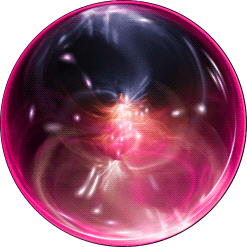
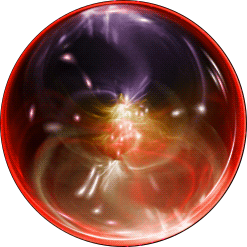
Agent orbs: one colour per agent, a free colour for each new agent
The pink orb animation is hue-rotated per agent (CSS filter on the still and
the video canvas; same matrix for the push-icon stills, scripts/agent-orb-colors.mjs):
Anastasia rose, Claude coral, Zero gold, Robin green, Nami cyan (photo shown),
Hammer blue, Katerina violet, plus five spare colours. A new agent gets the free
colour farthest from those taken (server/agents.js on creation, preselected in
the agent editor, where taken colours are dimmed).

diff --git a/src/components/AgentsPage.jsx b/src/components/AgentsPage.jsx
@@ -1,7 +1,7 @@
 import { useEffect, useState } from 'react';
 import { LuPlus, LuTrash2, LuImagePlus } from 'react-icons/lu';
 import BotAvatar, { hasPhoto, avatarKind } from './BotAvatar.jsx';
-import { ORB_SPEC, ORB_ACCENT } from '../orb.js';
+import { ORB_COLORS, orbSpec, orbAccent, freeOrbColor } from '../orb.js';
 import { api, uploadFile, attachmentUrl } from '../api.js';
 import { PageHeader } from './Pages.jsx';
 
@@ -34,15 +34,16 @@ export default function AgentsPage({ agents, initial }) {
           {!agents.length && sel !== 'new' && <p className="empty-note">Aucun agent.</p>}
         </nav>
         <div className="split-body">
-          <AgentEditor key={`${sel}:${current ? 'loaded' : 'empty'}`} agent={current} onSaved={(a) => setSel(a.slug)} onDeleted={() => setSel(agents.find((a) => a.slug !== sel)?.slug || 'new')} />
+          <AgentEditor key={`${sel}:${current ? 'loaded' : 'empty'}`} agent={current} agents={agents} onSaved={(a) => setSel(a.slug)} onDeleted={() => setSel(agents.find((a) => a.slug !== sel)?.slug || 'new')} />
         </div>
       </div>
     </div>
   );
 }
 
-function AgentEditor({ agent, onSaved, onDeleted }) {
-  const [form, setForm] = useState(() => (agent ? { ...EMPTY, ...agent } : EMPTY));
+function AgentEditor({ agent, agents, onSaved, onDeleted }) {
+  // A new agent starts with a colour of orb no other agent has.
+  const [form, setForm] = useState(() => (agent ? { ...EMPTY, ...agent } : { ...EMPTY, avatar: orbSpec(freeOrbColor(agents)) }));
   const [error, setError] = useState(null);
   const [saved, setSaved] = useState(false);
   useEffect(() => setSaved(false), [form]);
@@ -52,9 +53,8 @@ function AgentEditor({ agent, onSaved, onDeleted }) {
     e.preventDefault();
     setError(null);
     try {
-      // A new agent keeps the orb shown in the preview (an explicit path, so its notifications show it too).
-      const avatar = form.avatar || (agent ? '' : ORB_SPEC);
-      const a = await api.put(`/api/agents/${agent?.slug || 'new'}`, { ...form, avatar, slug: form.label || agent?.slug });
+      // An empty avatar on a new agent gets a free orb colour from the server.
+      const a = await api.put(`/api/agents/${agent?.slug || 'new'}`, { ...form, slug: form.label || agent?.slug });
       setSaved(true);
       onSaved(a);
     } catch (err) { setError(err.message); }
@@ -67,7 +67,7 @@ function AgentEditor({ agent, onSaved, onDeleted }) {
 
   return (
     <form className="form agent-form" onSubmit={save}>
-      <BotBuilder spec={form.avatar} seed={agent?.slug || form.label || 'nouveau'} onChange={(v) => set('avatar', v)} />
+      <BotBuilder spec={form.avatar} seed={agent?.slug || form.label || 'nouveau'} agents={agents} onChange={(v) => set('avatar', v)} />
       <label>Nom
         <input autoFocus={!agent} value={form.label} onChange={(e) => set('label', e.target.value)} placeholder="ex. Relecteur Brand DS" />
       </label>
@@ -105,8 +105,9 @@ function AgentEditor({ agent, onSaved, onDeleted }) {
   );
 }
 
-// Avatar editor: the animated orb by default (the same for every agent), or a photo of one's own.
-function BotBuilder({ spec, seed, onChange }) {
+// Avatar editor: the animated orb in the agent's own colour by default, or a photo of one's own. Colours
+// already taken by another agent are marked, so each agent keeps a colour of its own.
+function BotBuilder({ spec, seed, agents = [], onChange }) {
   const [error, setError] = useState(null);
   const k = avatarKind(spec, seed);
   const upload = async (e) => {
@@ -117,7 +118,7 @@ function BotBuilder({ spec, seed, onChange }) {
     try { onChange(attachmentUrl((await uploadFile(f)).path)); } catch (err) { setError(err.message); }
   };
   return (
-    <div className="bot-builder" style={{ '--acc': k.kind === 'orb' ? ORB_ACCENT : undefined }}>
+    <div className="bot-builder" style={{ '--acc': k.kind === 'orb' ? orbAccent(k.color) : undefined }}>
       <div className="bot-preview">
         <span className="chat-empty-stage"><BotAvatar spec={spec} seed={seed} size={132} /></span>
       </div>
@@ -125,9 +126,15 @@ function BotBuilder({ spec, seed, onChange }) {
         <div className="bot-row">
           <span className="bot-row-label">Orbe</span>
           <div className="bot-options">
-            <button type="button" className={`bot-option ${k.kind === 'orb' ? 'on' : ''}`} title="Orbe" onClick={() => onChange(ORB_SPEC)}>
-              <BotAvatar spec={ORB_SPEC} seed={seed} size={28} />
-            </button>
+            {Object.entries(ORB_COLORS).map(([c, { label }]) => {
+              const owner = agents.find((a) => a.slug !== seed && avatarKind(a.avatar, a.slug).kind !== 'photo' && avatarKind(a.avatar, a.slug).color === c);
+              return (
+                <button key={c} type="button" className={`bot-option ${k.kind === 'orb' && k.color === c ? 'on' : ''} ${owner ? 'taken' : ''}`}
+                  title={owner ? `${label} — déjà pris par ${owner.label}` : label} onClick={() => onChange(orbSpec(c))}>
+                  <BotAvatar spec={orbSpec(c)} seed={seed} size={28} />
+                </button>
+              );
+            })}
           </div>
         </div>
         <div className="bot-row">

diff --git a/src/orb.js b/src/orb.js
@@ -14,3 +14,77 @@ export const ORB_WEBP = '/agents/orb/orb.webp';
 export const ORB_GIF = '/agents/orb/orb.gif';
 const ORB_RE = /^\/?agents\/orbs?\/[a-z0-9-]+\.png$/;
 export const isOrb = (spec) => typeof spec === 'string' && ORB_RE.test(spec);
+
+// ---- one colour per agent --------------------------------------------------------------------------
+// Every agent has its own colour of the same animation: a hue rotation of the pink original (CSS
+// `filter: hue-rotate()` in the app, the same matrix applied to the stills by scripts/agent-orb-colors.mjs).
+// Spec of a coloured orb: "/agents/orbs/<colour>.png" (its still, also the push icon). Rotations picked on
+// renders so the colours stay clearly apart; `hue` = perceived hue, used to keep new agents' colours far from
+// the ones already taken.
+export const ORB_COLORS = {
+  rose: { label: 'Rose', rotate: 0, hue: 330 },
+  corail: { label: 'Corail', rotate: 40, hue: 10 },
+  or: { label: 'Or', rotate: 85, hue: 45 },
+  vert: { label: 'Vert', rotate: 140, hue: 120 },
+  cyan: { label: 'Cyan', rotate: 210, hue: 190 },
+  bleu: { label: 'Bleu', rotate: 235, hue: 225 },
+  violet: { label: 'Violet', rotate: 295, hue: 280 },
+  // Spare colours, for the next agents (between the ones above: the most distant free one is picked).
+  lime: { label: 'Lime', rotate: 112, hue: 80 },
+  emeraude: { label: 'Émeraude', rotate: 168, hue: 155 },
+  indigo: { label: 'Indigo', rotate: 262, hue: 250 },
+  magenta: { label: 'Magenta', rotate: 318, hue: 305 },
+  rouge: { label: 'Rouge', rotate: 22, hue: 355 },
+};
+// Colour of the agents whose .md has no orb spec. Every agent its own colour: keep this list free of
+// duplicates, and give a new agent a free colour (server/agents.js does it on creation via freeOrbColor).
+export const AGENT_ORBS = {
+  anastasia: 'rose', // Instagram pink, the original
+  claude: 'corail', // Claude's coral
+  zero: 'or', // folders, files and paperwork: archive gold
+  robin: 'vert', // everyday life, lists, budget
+  nami: 'cyan', // team lead (photo; colour kept so no one else takes it)
+  hammer: 'bleu', // builds apps: electric blue
+  katerina: 'violet', // portfolio, design
+};
+// Names of the former WebGL palettes, still found in old specs.
+const OLD_PALETTES = { electrique: 'bleu', menthe: 'vert', iris: 'violet', azur: 'cyan', aurore: 'emeraude', braise: 'rouge', lagune: 'cyan' };
+
+export const orbSpec = (color) => `/agents/orbs/${color}.png`;
+const hashOf = (s) => [...String(s)].reduce((h, c) => (h * 31 + c.charCodeAt(0)) >>> 0, 7);
+// Colour of an agent's orb: the one in its spec, else its default, else one derived from its id.
+export function orbColor(spec, slug) {
+  const m = typeof spec === 'string' && /^\/?agents\/orbs\/([a-z0-9-]+)\.png$/.exec(spec);
+  const named = m && (ORB_COLORS[m[1]] ? m[1] : OLD_PALETTES[m[1]]);
+  if (named) return named;
+  if (AGENT_ORBS[slug]) return AGENT_ORBS[slug];
+  const names = Object.keys(ORB_COLORS);
+  return names[hashOf(slug || 'agent') % names.length];
+}
+// The free colour farthest (in hue) from those already taken by `agents` ([{ slug, avatar }]) or reserved in
+// AGENT_ORBS (Claude, the built-in agent, has no .md); when all are taken, the least used one.
+export function freeOrbColor(agents) {
+  const used = [...new Set([...Object.keys(AGENT_ORBS), ...agents.map((a) => a.slug)])]
+    .map((slug) => orbColor(agents.find((a) => a.slug === slug)?.avatar, slug));
+  const dist = (a, b) => { const d = Math.abs(ORB_COLORS[a].hue - ORB_COLORS[b].hue) % 360; return Math.min(d, 360 - d); };
+  const score = (c) => [-used.filter((u) => u === c).length, used.length ? Math.min(...used.map((u) => dist(c, u))) : 0];
+  return Object.keys(ORB_COLORS).reduce((best, c) => {
+    const [n, d] = score(c), [bn, bd] = score(best);
+    return n > bn || (n === bn && d > bd) ? c : best;
+  });
+}
+// CSS hue-rotate() as a 3×3 sRGB matrix (Filter Effects spec), for the stills and the accent colours.
+export function hueMatrix(deg) {
+  const r = (deg * Math.PI) / 180, c = Math.cos(r), s = Math.sin(r);
+  return [
+    [0.213 + c * 0.787 - s * 0.213, 0.715 - c * 0.715 - s * 0.715, 0.072 - c * 0.072 + s * 0.928],
+    [0.213 - c * 0.213 + s * 0.143, 0.715 + c * 0.285 + s * 0.14, 0.072 - c * 0.072 - s * 0.283],
+    [0.213 - c * 0.213 - s * 0.787, 0.715 - c * 0.715 + s * 0.715, 0.072 + c * 0.928 + s * 0.072],
+  ];
+}
+// Accent of a colour (rings, headers): the pink accent turned like the orb.
+export function orbAccent(color) {
+  const rgb = [1, 3, 5].map((i) => parseInt(ORB_ACCENT.slice(i, i + 2), 16));
+  const m = hueMatrix(ORB_COLORS[color]?.rotate || 0);
+  return `#${m.map((row) => Math.round(Math.max(0, Math.min(255, row.reduce((t, k, i) => t + k * rgb[i], 0)))).toString(16).padStart(2, '0')).join('')}`;
+}

diff --git a/src/components/BotAvatar.jsx b/src/components/BotAvatar.jsx
@@ -1,7 +1,7 @@
 // Agent avatars, always a plain circle (no shadow, glow, border or hover effect; only a small green
 // dot while the agent works). Four kinds, from the avatar field of the agent's .md:
-//  - "/agents/orb/orb.png" (or a former "/agents/orbs/<palette>.png") → the animated orb (src/orb.js,
-//    src/orbVideo.js) — the default of every agent;
+//  - "/agents/orbs/<colour>.png" (or the generic "/agents/orb/orb.png") → the animated orb in the agent's own
+//    colour (src/orb.js ORB_COLORS / AGENT_ORBS, src/orbVideo.js) — the default of every agent;
 //  - an image path or URL (an uploaded photo: /api/attachments/…) → that picture;
 //  - "" / legacy spec / "photo" for an agent with a profile photo (PHOTOS, scripts/agent-photos.mjs:
 //    public/agents/<slug>.webp large, <slug>-sm.webp small) → the photo;
@@ -9,7 +9,7 @@
 // Anything else → the agent's default orb.
 
 import { memo, useEffect, useRef } from 'react';
-import { isOrb, ORB_STILL, ORB_ACCENT, ORB_WEBP, ORB_GIF } from '../orb.js';
+import { isOrb, ORB_STILL, ORB_WEBP, ORB_GIF, ORB_COLORS, orbColor, orbAccent } from '../orb.js';
 import { attachOrb, useOrbMode } from '../orbVideo.js';
 import '../orb.css';
 
@@ -97,15 +97,15 @@ export function avatarKind(spec, slug) {
   if (spec && typeof spec === 'object') return { kind: 'portrait' };
   const s = String(spec || '');
   if (s.startsWith('v2:')) return { kind: 'portrait' };
-  if (isOrb(s)) return { kind: 'orb' };
+  if (isOrb(s)) return { kind: 'orb', color: orbColor(s, slug) };
   if (isImage(s)) return { kind: 'photo', src: () => s };
   if (hasPhoto(slug)) return { kind: 'photo', src: (size) => `/agents/${slug}${size >= 72 ? '' : '-sm'}.webp` };
-  return { kind: 'orb' };
+  return { kind: 'orb', color: orbColor(s, slug) };
 }
 export const usesPhoto = (spec, slug) => avatarKind(spec, slug).kind === 'photo';
 export function accentOf(spec, seed) {
   const k = avatarKind(spec, seed);
-  if (k.kind === 'orb') return ORB_ACCENT;
+  if (k.kind === 'orb') return orbAccent(k.color);
   return ACCENTS[parseAvatar(spec, seed).accent];
 }
 
@@ -337,12 +337,12 @@ export function portraitUrl(a, tier = 'xl') {
 
 // The orb: its still image, covered by a canvas fed with the shared video's frames (src/orbVideo.js), or
 // by the animated WebP/GIF when the video can't play; the still image alone if motion is reduced.
-function Orb({ size, busy, className }) {
+function Orb({ color, size, busy, className }) {
   const ref = useRef(null);
   const mode = useOrbMode();
   useEffect(() => (mode === 'video' && ref.current ? attachOrb(ref.current, size) : undefined), [mode, size]);
   return (
-    <span className={`bot-avatar orb ${busy ? 'busy' : ''} ${className}`} style={{ width: size, height: size }} aria-hidden="true">
+    <span className={`bot-avatar orb ${busy ? 'busy' : ''} ${className}`} style={{ width: size, height: size, '--orb-hue': `${ORB_COLORS[color]?.rotate || 0}deg` }} aria-hidden="true">
       {mode === 'image'
         ? <picture><source srcSet={ORB_WEBP} type="image/webp" /><img className="orb-still" src={ORB_GIF} alt="" draggable="false" width={size} height={size} /></picture>
         : <img className="orb-still" src={ORB_STILL} alt="" draggable="false" width={size} height={size} decoding="async" />}
@@ -354,7 +354,7 @@ function Orb({ size, busy, className }) {
 
 function BotAvatar({ spec, seed, size = 16, className = '', busy = false }) {
   const k = avatarKind(spec, seed);
-  if (k.kind === 'orb') return <Orb size={size} busy={busy} className={className} />;
+  if (k.kind === 'orb') return <Orb color={k.color} size={size} busy={busy} className={className} />;
   const a = parseAvatar(spec, seed);
   const tier = size >= 72 ? 'xl' : size >= 36 ? 'md' : 'sm';
   const src = k.kind === 'photo' ? k.src(size) : portraitUrl(a, tier);

diff --git a/server/agents.js b/server/agents.js
@@ -5,6 +5,7 @@
 import fs from 'node:fs';
 import path from 'node:path';
 import os from 'node:os';
+import { freeOrbColor, orbSpec, ORB_SPEC } from '../src/orb.js';
 
 export const AGENTS_DIR = path.join(os.homedir(), '.claude', 'agents');
 const SLUG = /^[a-z0-9][a-z0-9-]{0,62}$/;
@@ -57,6 +58,10 @@ export function leadAgent() {
 export function saveAgent(slug, data) {
   if (!isSlug(slug)) throw new Error("identifiant d'agent invalide (minuscules, chiffres et tirets)");
   const meta = { ...data, name: slug };
+  // A new agent without its own picture gets an orb colour no other agent has (one colour per agent).
+  const isNew = !fs.existsSync(path.join(AGENTS_DIR, `${slug}.md`));
+  const av = String(meta.avatar || '').trim();
+  if (isNew && (!av || av === ORB_SPEC)) meta.avatar = orbSpec(freeOrbColor(listAgents()));
   if (!String(data.description || '').trim()) throw new Error('ajoute une description : elle dit à Claude quand utiliser cet agent');
   if (!String(data.prompt || '').trim()) throw new Error("ajoute des instructions à l'agent");
   const lines = ['---'];

diff --git a/src/orb.css b/src/orb.css
@@ -3,6 +3,9 @@
 .orb { position: relative; display: inline-flex; flex: none; border-radius: 50%; }
 .orb picture { display: contents; }
 .orb-still, .orb canvas { position: absolute; inset: 0; width: 100%; height: 100%; border-radius: 50%; display: block; user-select: none; -webkit-user-drag: none; }
+/* Each agent's colour: the pink original turned by --orb-hue (src/orb.js ORB_COLORS), on the images only
+   (not the busy dot). */
+.orb-still, .orb canvas { filter: hue-rotate(var(--orb-hue, 0deg)); }
 .orb canvas { opacity: 0; }
 .orb canvas.on { opacity: 1; }
 .orb .portrait-dot { z-index: 1; }
@@ -10,3 +13,5 @@
 /* avatar editor (AgentsPage BotBuilder) */
 .bot-builder .bot-upload { display: inline-flex; flex-direction: row; align-items: center; gap: 6px; margin: 0; cursor: pointer; }
 .bot-options .btn-ghost.on { box-shadow: inset 0 0 0 1px var(--foreground); }
+/* Colour already taken by another agent (agents page): still selectable, but dimmed. */
+.bot-option.taken .orb { opacity: 0.35; }
